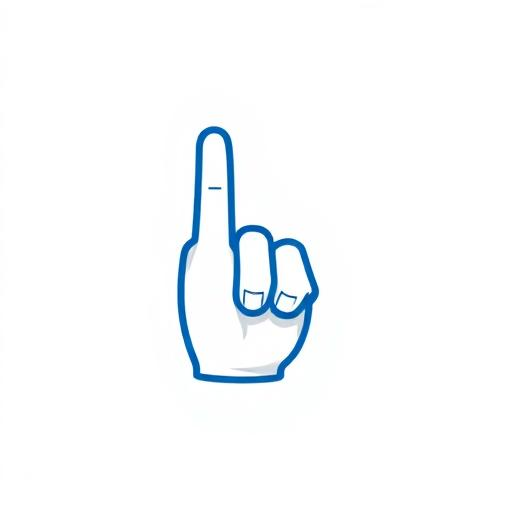
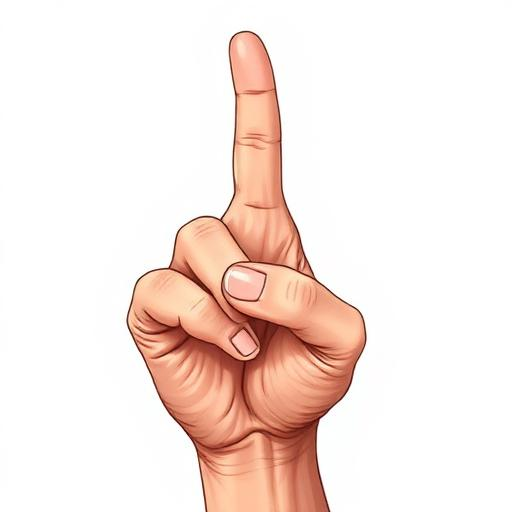
Refactor Fruit Zap game
- Replace player icon with a hand image with firing details.
- Control player movement using 3 angles mapped to X-axis position.
- Improve enemy behavior: variable positions, lateral movement, and block drops.
- Add soft, pleasant sounds for enemy elimination.

Changed region(s): [[0.25, 0.0625, 0.7188, 1.0]]

diff --git a/src/components/FruitZapGame.tsx b/src/components/FruitZapGame.tsx
@@ -16,6 +16,8 @@ interface Position {
 interface Enemy extends Position {
   id: number;
   destroyed: boolean;
+  row: number;
+  col: number;
 }
 
 interface Bullet extends Position {
@@ -30,7 +32,6 @@ const FruitZapGame: React.FC<FruitZapGameProps> = ({ onComplete }) => {
   const { enemySpeed, shotSpeed } = useGameConfig();
   const [gameStarted, setGameStarted] = useState(false);
   const [score, setScore] = useState(0);
-  const [playerAngle, setPlayerAngle] = useState(0); // 0=centro, -1=izquierda, 1=derecha
   const [playerPosition, setPlayerPosition] = useState(400);
   const [enemies, setEnemies] = useState<Enemy[]>([]);
   const [bullets, setBullets] = useState<Bullet[]>([]);
@@ -41,6 +42,8 @@ const FruitZapGame: React.FC<FruitZapGameProps> = ({ onComplete }) => {
   const [extraWaves, setExtraWaves] = useState(0);
   const [enemiesDestroyed, setEnemiesDestroyed] = useState(0);
   const [shotsFired, setShotsFired] = useState(0);
+  const [enemyDirection, setEnemyDirection] = useState(1); // 1 = derecha, -1 = izquierda
+  const [enemyMoveDown, setEnemyMoveDown] = useState(false);
   const gameRef = useRef<HTMLDivElement>(null);
   const bulletIdRef = useRef(0);
   const enemyIdRef = useRef(0);
@@ -52,35 +55,58 @@ const FruitZapGame: React.FC<FruitZapGameProps> = ({ onComplete }) => {
     return emojis[(waveNumber - 1) % emojis.length];
   };
 
-  // Crear enemigos con posiciones aleatorias
+  // Crear enemigos con posiciones más variables
   const createEnemies = useCallback((waveNumber: number) => {
     const newEnemies: Enemy[] = [];
     const rows = Math.min(3 + Math.floor(waveNumber / 2), 5);
-    const cols = Math.min(6 + waveNumber, 10);
+    const cols = Math.min(6 + waveNumber, 8);
     
     for (let row = 0; row < rows; row++) {
       for (let col = 0; col < cols; col++) {
-        // Posición base con offset aleatorio
-        const baseX = 100 + col * 60;
-        const baseY = 50 + row * 50;
-        const offsetX = (Math.random() - 0.5) * 30; // ±15px horizontal
-        const offsetY = (Math.random() - 0.5) * 20; // ±10px vertical
+        // Espaciado más variable y natural
+        const baseX = 80 + col * (gameWidth - 160) / (cols - 1);
+        const baseY = 60 + row * 60;
+        const offsetX = (Math.random() - 0.5) * 40; // Mayor variabilidad horizontal
+        const offsetY = (Math.random() - 0.5) * 25; // Mayor variabilidad vertical
         
         newEnemies.push({
           id: enemyIdRef.current++,
-          x: Math.max(30, Math.min(gameWidth - 30, baseX + offsetX)),
-          y: Math.max(20, baseY + offsetY),
-          destroyed: false
+          x: Math.max(40, Math.min(gameWidth - 40, baseX + offsetX)),
+          y: Math.max(30, baseY + offsetY),
+          destroyed: false,
+          row,
+          col
         });
       }
     }
     return newEnemies;
   }, [gameWidth]);
 
+  // Sonidos terapéuticos suaves
+  const playHitSound = useCallback(() => {
+    // Crear un sonido suave y agradable usando Web Audio API
+    const audioContext = new (window.AudioContext || (window as any).webkitAudioContext)();
+    const oscillator = audioContext.createOscillator();
+    const gainNode = audioContext.createGain();
+    
+    oscillator.connect(gainNode);
+    gainNode.connect(audioContext.destination);
+    
+    // Configuración para sonido suave y terapéutico
+    oscillator.frequency.setValueAtTime(400, audioContext.currentTime);
+    oscillator.frequency.exponentialRampToValueAtTime(800, audioContext.currentTime + 0.1);
+    
+    gainNode.gain.setValueAtTime(0, audioContext.currentTime);
+    gainNode.gain.linearRampToValueAtTime(0.1, audioContext.currentTime + 0.05);
+    gainNode.gain.exponentialRampToValueAtTime(0.01, audioContext.currentTime + 0.2);
+    
+    oscillator.start(audioContext.currentTime);
+    oscillator.stop(audioContext.currentTime + 0.2);
+  }, []);
+
   // Inicializar juego
   const initGame = useCallback(() => {
     setScore(0);
-    setPlayerAngle(0);
     setPlayerPosition(400);
     setBullets([]);
     setExplosions([]);
@@ -88,58 +114,73 @@ const FruitZapGame: React.FC<FruitZapGameProps> = ({ onComplete }) => {
     setExtraWaves(0);
     setEnemiesDestroyed(0);
     setShotsFired(0);
+    setEnemyDirection(1);
+    setEnemyMoveDown(false);
     setEnemies(createEnemies(1));
     setGameStarted(true);
   }, [createEnemies]);
 
-  // Movimiento automático del jugador en 3 ángulos
+  // Control del jugador basado en suma de ángulos de la mano (simulado por ahora)
   useEffect(() => {
     if (!gameStarted) return;
 
+    // TODO: Integrar con datos reales de handAngles cuando esté disponible
+    // Por ahora simular movimiento automático
     const movePlayer = () => {
-      setPlayerAngle(prev => {
-        // Ciclo: centro -> izquierda -> centro -> derecha -> centro
-        if (prev === 0) return Math.random() < 0.5 ? -1 : 1;
-        return 0;
+      setPlayerPosition(prev => {
+        const center = gameWidth / 2;
+        const amplitude = 250;
+        const time = Date.now() / 1000;
+        return center + Math.sin(time * 0.5) * amplitude;
       });
     };
 
-    // Cambiar ángulo cada 2 segundos
-    const interval = setInterval(movePlayer, 2000);
+    const interval = setInterval(movePlayer, 100);
     return () => clearInterval(interval);
-  }, [gameStarted]);
+  }, [gameStarted, gameWidth]);
 
-  // Actualizar posición basada en el ángulo
-  useEffect(() => {
-    const centerX = gameWidth / 2;
-    const offset = 150; // distancia desde el centro
-    
-    switch (playerAngle) {
-      case -1: // izquierda
-        setPlayerPosition(centerX - offset);
-        break;
-      case 1: // derecha
-        setPlayerPosition(centerX + offset);
-        break;
-      default: // centro
-        setPlayerPosition(centerX);
-    }
-  }, [playerAngle, gameWidth]);
-
-  // Movimiento de enemigos
+  // Movimiento mejorado de enemigos (comportamiento clásico)
   useEffect(() => {
     if (!gameStarted || enemies.length === 0) return;
 
     const moveEnemies = () => {
-      setEnemies(prev => prev.map(enemy => ({
-        ...enemy,
-        y: enemy.y + enemySpeed * 0.5
-      })));
+      setEnemies(prev => {
+        let shouldMoveDown = false;
+        const activeEnemies = prev.filter(e => !e.destroyed);
+        
+        // Verificar si algún enemigo tocó un borde
+        const rightmostX = Math.max(...activeEnemies.map(e => e.x));
+        const leftmostX = Math.min(...activeEnemies.map(e => e.x));
+        
+        if ((enemyDirection === 1 && rightmostX >= gameWidth - 50) || 
+            (enemyDirection === -1 && leftmostX <= 50)) {
+          shouldMoveDown = true;
+          setEnemyDirection(prev => prev * -1);
+          setEnemyMoveDown(true);
+        }
+
+        return prev.map(enemy => {
+          if (enemy.destroyed) return enemy;
+          
+          if (enemyMoveDown) {
+            // Mover hacia abajo
+            return { ...enemy, y: enemy.y + 30 };
+          } else {
+            // Mover lateralmente
+            return { ...enemy, x: enemy.x + (enemyDirection * enemySpeed * 2) };
+          }
+        });
+      });
+      
+      // Reset del movimiento hacia abajo
+      if (enemyMoveDown) {
+        setTimeout(() => setEnemyMoveDown(false), 100);
+      }
     };
 
-    const interval = setInterval(moveEnemies, 100);
+    const interval = setInterval(moveEnemies, 200);
     return () => clearInterval(interval);
-  }, [gameStarted, enemies.length, enemySpeed]);
+  }, [gameStarted, enemies.length, enemySpeed, enemyDirection, enemyMoveDown]);
 
   // Movimiento de balas
   useEffect(() => {
@@ -181,9 +222,10 @@ const FruitZapGame: React.FC<FruitZapGameProps> = ({ onComplete }) => {
                   y: enemy.y
                 }]);
                 
-                // Incrementar puntuación
+                // Incrementar puntuación y reproducir sonido
                 setScore(s => s + 10);
                 setEnemiesDestroyed(d => d + 1);
+                playHitSound();
                 
                 return { ...enemy, destroyed: true };
               }
@@ -353,8 +395,7 @@ const FruitZapGame: React.FC<FruitZapGameProps> = ({ onComplete }) => {
             className="absolute transition-all duration-500"
             style={{ 
               left: playerPosition - 30, 
-              top: gameHeight - 80,
-              transform: `rotate(${playerAngle * 15}deg)`
+              top: gameHeight - 80
             }}
           >
             <img 
@@ -381,7 +422,7 @@ const FruitZapGame: React.FC<FruitZapGameProps> = ({ onComplete }) => {
           <div className="text-xs text-muted-foreground">
             Precisión: {shotsFired > 0 ? Math.round((enemiesDestroyed / shotsFired) * 100) : 0}% | 
             Disparos: {shotsFired} | 
-            Posición: {playerAngle === -1 ? 'Izquierda' : playerAngle === 1 ? 'Derecha' : 'Centro'}
+            Posición: {Math.round(playerPosition)}
           </div>
         </div>
       </CardContent>
